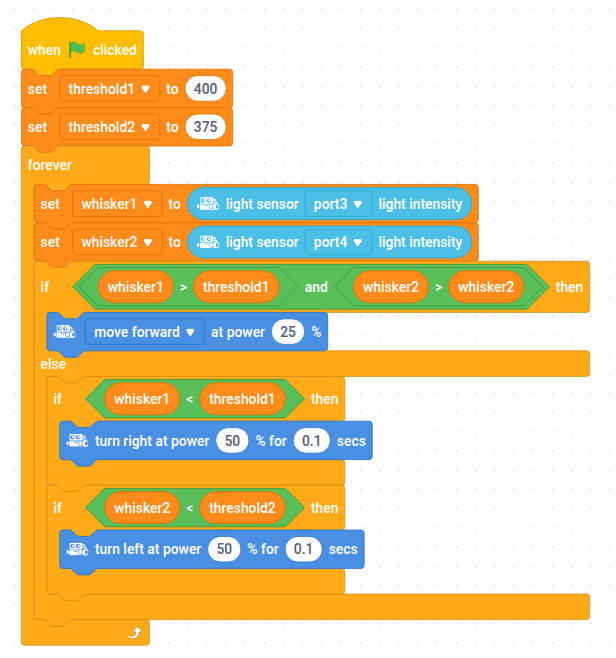
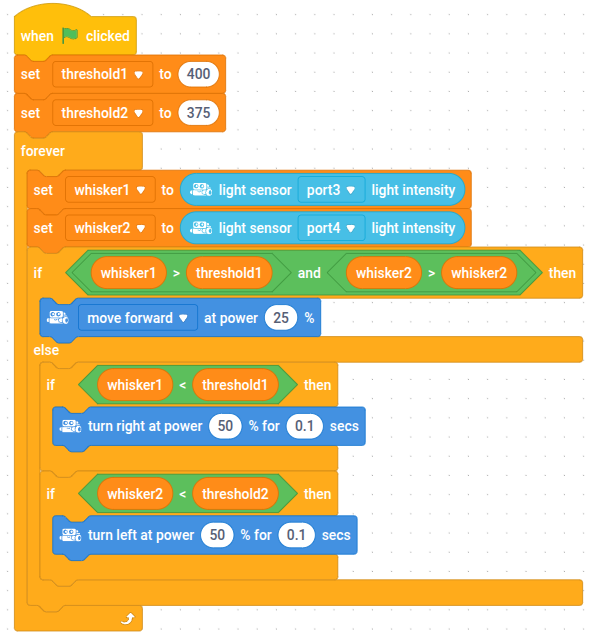
Link the two mBlock projects, and take the newer screenshot
Both programs now link to planet.mblock.cc the way every other robot
activity does, so a teacher can open them rather than retype from a
picture. The obstacle avoidance screenshot is replaced with the newer
export.

Neither has a local mirror yet, and check-links.py is saying so on every
build: 18 planet links against 16 mirrors. The pairing exists because
some school networks block the Makeblock site, so the warning is left
standing rather than silenced -- it goes away when both projects are
exported into content/files/programs/.

The condition bug survives into the new screenshot. `whisker1 >
threshold1 and whisker2 > whisker2` still compares whisker2 with itself,
so the forward branch cannot run; checked at 3x magnification, so it is
not a rendering artefact. The note now asks the question that decides the
fix: whether project 8233104 itself carries the same comparison or only
the picture does. If the project is wrong it matters more than the
screenshot, since the link is what a teacher will open.

Claude-Session: https://claude.ai/code/session_01JXroQdKre6o6MM8iAkCpNx

Changed region(s): [[0.0, 0.0, 1.0, 0.9953], [0.9426, 0.902, 1.0, 0.9642], [0.1824, 0.9331, 0.2432, 0.9953]]

diff --git a/book/content/chapters/80-whiskers.md b/book/content/chapters/80-whiskers.md
@@ -258,6 +258,8 @@ Here is the whole of reading two whiskers. It does nothing with the numbers yet;
 
 ![The smallest useful whisker program: read each whisker into a variable, forever. Port 3 and port 4 are the only two the light sensor block offers, so a two-whisker robot uses both. Naming the variables is not decoration — every program later in this chapter is written in terms of them, and a threshold comparison is far easier to debug when the reading has a name.](images/touch-and-whiskers-read-two.png)
 
+[Open the mBlock project](https://planet.mblock.cc/project/8233113).
+
 Run this and watch the variables on the stage while bending each whisker by hand. That is also the calibration step below, done informally: you are reading off the resting value and the bent value before deciding anything.
 
 > **Note**
@@ -315,8 +317,12 @@ A worked version, building straight on the reading program from earlier:
 
 ![One way to write the obstacle avoidance challenge. The two thresholds are set once at the start and then never mentioned again, which is what makes this program easy to retune: a robot reacting too late or too eagerly is fixed by editing two numbers at the top rather than hunting through the logic. Note that the two thresholds are different — they belong to two different whiskers, and there is no reason two sensors should agree.](images/touch-and-whiskers-avoid-obstacles.png)
 
+[Open the mBlock project](https://planet.mblock.cc/project/8233104).
+
+<!-- TODO: mirrors. Every other robot activity in the book pairs its planet.mblock.cc link with a copy in content/files/programs/, because some school networks block the Makeblock site, and check-links.py counts the two and complains when they do not match -- it is complaining now. Export both projects from the IDE and drop them in as whisker_read.mblock and whisker_obstacle_avoidance.mblock, then add the usual "If your school blocks the Makeblock site, download ... instead" sentence to both. -->
+
 <!-- TODO: two problems with this screenshot, both needing a re-export rather than anything I can fix here.
-     1. THE PROGRAM DOES NOT WORK AS SHOWN. The first condition reads `whisker1 > threshold1 and whisker2 > whisker2`. The second half compares whisker2 with itself, which is never true, so the "drive forward" branch can never run and the robot will never move off. It should be `whisker2 > threshold2`. Easy to miss on screen and impossible for a teacher to debug from a picture, so this must be corrected before the chapter ships.
+     1. THE PROGRAM STILL DOES NOT WORK AS SHOWN, in the second screenshot as in the first. The opening condition reads `whisker1 > threshold1 and whisker2 > whisker2`. The right-hand half compares whisker2 with itself, which is never true, so the "drive forward" branch can never run and the robot never moves off. It should be `whisker2 > threshold2`. Checked at 3x magnification on the new image, so this is not a rendering artefact. Worth establishing whether the mBlock project itself (8233104) has the same comparison or only the screenshot does: if the project is right, all that is needed is a fresh capture; if the project is wrong, fix it there first, because that link is what teachers will actually open.
      2. The numbers disagree with the text. This program uses thresholds of 400 and 375, and a threshold has to sit between the resting and bent readings -- but the Note above tells teachers an unbent whisker reads "somewhere around 300", which would put both thresholds above resting and make the forward branch fail for a second reason. Either the ~300 figure is wrong or these thresholds are from a robot whose whiskers rest much higher. Whichever it is, the two need to agree, because a teacher who calibrates and gets 300 will conclude the lesson is wrong.
      Worth adding while you are re-exporting: the book links a downloadable .mblock for every other robot activity, hosted on planet.mblock.cc with a local mirror in content/files/programs/. These two are pictures only, so students have to retype them. -->
 
